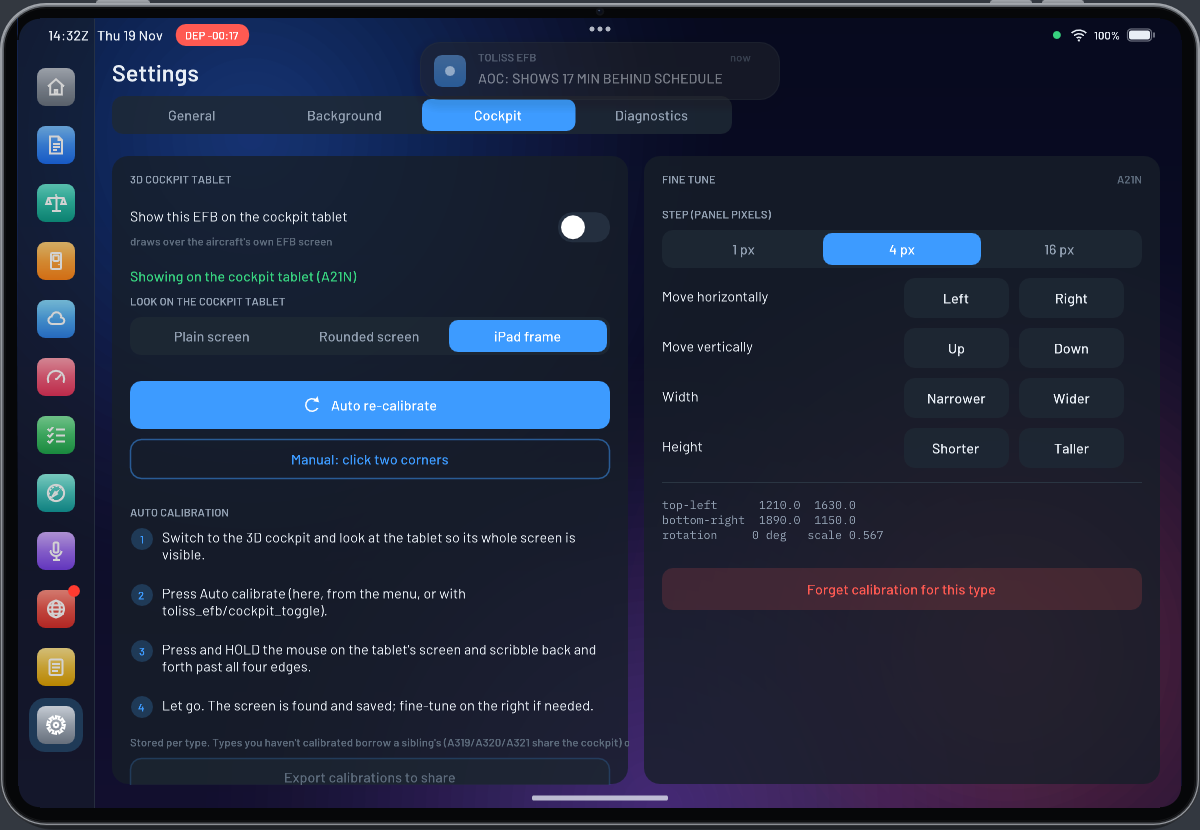
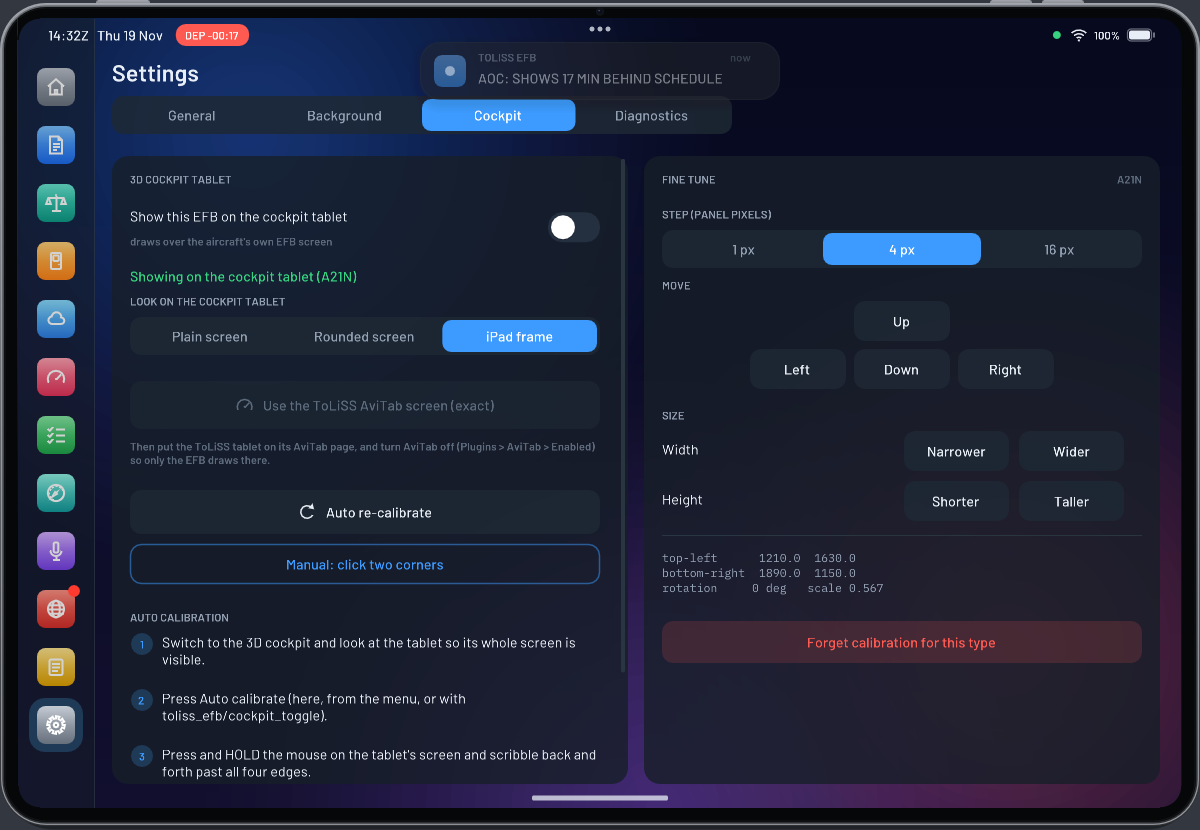
ToLiSS EFB v1.9.3

diff --git a/README.md b/README.md
@@ -60,11 +60,19 @@ The EFB can replace the picture on the aircraft's own cockpit tablet. It draws i
 aircraft's panel texture, over the screen you calibrate, and you use it by clicking on the
 3D tablet as usual.
 
+**Exact, no calibration:** *Settings → Cockpit → Use the ToLiSS AviTab screen*. ToLiSS reserves an area of its
+tablet for AviTab (`AviTab.json` in the aircraft folder; built in when it's missing: A319/A320/A321 left 2119,
+bottom 9, A330-900/A340-600 left 142, bottom 16, both 1024 × 640). Put the ToLiSS tablet on its AviTab page and
+turn AviTab off (*Plugins → AviTab → Enabled*), so only the EFB draws there.
+
+Or calibrate it yourself:
+
 1. Sit in the 3D cockpit, looking at the tablet so its whole screen is visible.
 2. **Plugins → ToLiSS EFB → Auto-calibrate cockpit tablet...** (or *Settings → Cockpit → Auto calibrate*).
 3. **Press and hold** the mouse on the tablet's screen and scribble back and forth **past all four
    edges**, then let go. The plugin fits the screen's position and rotation from that one gesture.
-4. If the edges are a little off, nudge them in *Settings → Cockpit → Fine tune*. If auto
+4. If the edges are a little off, nudge them in *Settings → Cockpit → Fine tune* (arrow keys to move; Narrower /
+   Wider / Shorter / Taller resize around the centre, so the picture stays where it is). If auto
    calibration doesn't find the screen, the menu also has a manual mode: click the top-left
    corner, then the bottom-right one.
 

diff --git a/CHANGELOG.md b/CHANGELOG.md
@@ -3,6 +3,11 @@
 Each version has a one-line summary (used for the Discord announcements and the release list)
 followed by the details.
 
+## 1.9.3 - 2026-11-21 - Exact cockpit screen from AviTab.json, arrow keys
+- Settings > Cockpit > Use the ToLiSS AviTab screen: the exact tablet area from the aircraft's AviTab.json (built in for every ToLiSS type)
+- Fine tune: Up / Left / Down / Right laid out like arrow keys; resizing keeps the picture centred instead of sliding it
+- Plugins > ToLiSS EFB: Show tablet, Open in its own window and Show on cockpit tablet show an on/off dot
+
 ## 1.9.2 - 2026-11-21 - Airport charts, and the ToLiSS vehicles explained
 - Map: zoom in on an airport, or press ARPT, for its chart: aprons, taxiways with names, runways with numbers, stands
 - Far-away airports are drawn smaller so the map stays readable
